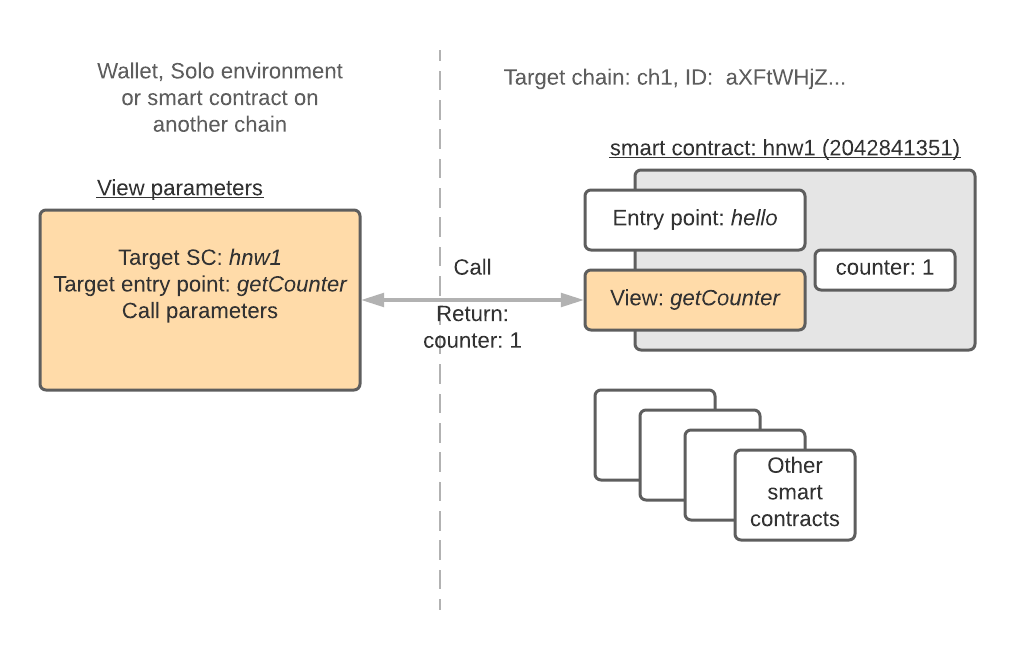
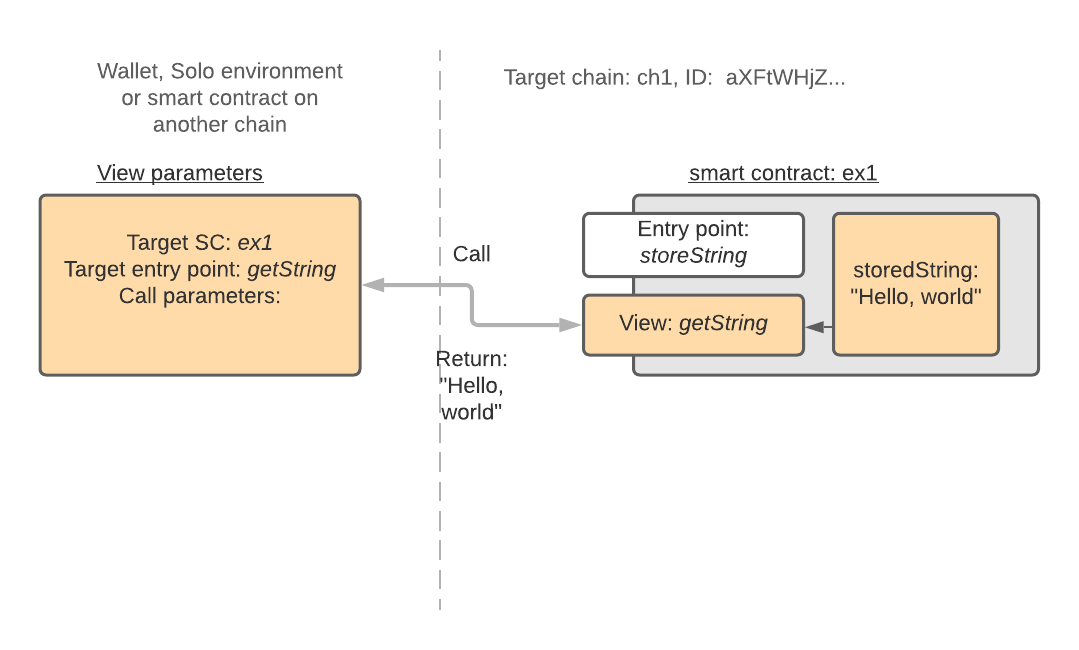
tutorial

Changed region(s): [[0.0305, 0.2154, 0.9773, 0.8308], [0.0916, 0.0923, 0.336, 0.2154], [0.4581, 0.0923, 0.8246, 0.1538]]

diff --git a/articles/tutorial/invoking.md b/articles/tutorial/invoking.md
@@ -1,0 +1,41 @@
+
+## General scheme of invoking the entry point
+The entry point is a function of the smart contract. 
+By “invocation” we mean calling the function from a particular environment. 
+The effect of invoking an entry point depends on the calling environment and who is calling. 
+Sending a request is an example of invocation of an entry point.
+
+In general, each call of the entry point is similar to the object method call in 
+the object-oriented paradigm. The invocations consists of:
+
+* `Hname` of the target contract, the called object 
+* `Hname` of the entry point function name, the name of the method
+* Parameters: a collection of key/value pairs, the (named) parameters of the call
+* Transferred tokens: a collection of color/balance pairs, a special type of parameter of the call
+
+The invocation always returns a result, a collection of key/value pairs or error, if the call fails.
+So, the following is a generic structure of the call to the entry point:
+```
+res = target_contract.function(parameters, transfer)
+```
+where `res` is a map (a dictionary) of key/value pairs, containing the result (possibly empty) or an error code.
+
+There are several ways to invoke the entry point of the smart contract: request, call and view call.
+
+* _request_ can be sent to the target contract from the “outside”: a wallet  
+or from another smart contract, on the same or on another chain. 
+The Solo environment is the “outside” (see [Invoking smart contract](6.md)). 
+The _request_ itself is a transaction, it contains parameters and attached tokens. 
+The tokens are transferred to the smart contract together with parameters and become part of its account. 
+Requests can only be invoked (sent) with a private key which controls those tokens. 
+Sending a request to a view will trigger an error and fallback actions.
+In the Solo environment requests are stored on the UTXODB ledger and handled by the Solo environment, 
+backlog is collected and requests are forwarded to the corresponding target chains.
+
+* any _entry point_ can be _called_ from another smart contract on the same chain. 
+It is just like a usual function call in a programming language. 
+In this case both caller and target smart contracts assume the same state of the chain, 
+i.e. the call is always synchronous.  
+
+* The _views_ can be called from anywhere, including from outside, 
+for example from a web API which fetches the smart contract data for display.

diff --git a/articles/tutorial/7.md b/articles/tutorial/7.md
@@ -3,11 +3,11 @@
 Previous: [Invoking smart contract. Sending a request](6.md)   
 
 ## Calling a view from the Solo environment
-The statement in the above example call a view entry point `getCounter` of the smart contract `example1`:
+The statement in the above example calls a view entry point `getString` of the smart contract `example1`:
 ```
 res, err := chain.CallView("example1", "getString")
 ```
-The call returns a result res, a collection of key/value pairs and error (if not nil).
+The call returns a result res, a collection of key/value pairs and error (if not `nil`).
 
 
 ![](call_view.png)
@@ -24,3 +24,28 @@ Views are used to retrieve information about the state of the smart contract,
 for example to display it on a website. In the Solo environment, certain methods such as `chain.GetInfo`, 
 `chain.GetFeeInfo` and `chain.GetTotalAssets` call views of the core smart contracts behind scenes 
 to retrieve the information about the chain or specific smart contract.
+
+### Decoding results from PostRequest and CallView in Solo
+The following is the technicality of the Go environment of _Solo_.
+
+The result returned by the call to the entry point from the _Solo_ environment is in the form of key/value pairs, 
+`dict.Dict` type. It is an extended interface and alias of the `map[string][]byte`. 
+The [dict.Dict](https://github.com/iotaledger/wasp/blob/develop/packages/kv/dict/dict.go) package
+provides a lot of useful functions to handle this form of key/value storage.
+
+In normal operation of smart contracts one can only retrieve results returned by view calls, 
+since view calls are synchronous. 
+On the other hand, sending a request to a smart contract is an asynchronous operation, and 
+the caller cannot retrieve the result. 
+However, in the _Solo_ environment, the call to `PostRequest` is synchronous, and the caller can inspect 
+the result: this is a convenient difference between the mocked _Solo_ environment and a 
+distributed Value Tangle ledger used by Wasp nodes. 
+It can be used to make assertions on the result of the call in the test.
+
+The example `res` is a dictionary where keys and values are binary slices. The statement
+```
+counter, exists, err := codec.DecodeInt64(res.MustGet("counter")) 
+```
+takes the value of the key “counter” from the key value store and attempts to decode it as `int64`.
+The decoding returns a possible error value, existence flag and the value itself.
+ 

diff --git a/articles/tutorial/6.md b/articles/tutorial/6.md
@@ -2,6 +2,8 @@
 
 Previous: [Deploying and running Rust smart contract](5.md#panic-exception-handling)
 
+(see also [General scheme of invoking the entry point](invoking.md))
+
 ## Invoking smart contract. Sending a request
 
 Sending request to a smart contract

diff --git a/articles/tutorial/readme.md b/articles/tutorial/readme.md
@@ -29,4 +29,4 @@ Chapters:
 * [Panic. Exception handling](5.md#panic-exception-handling)
 * [Invoking a smart contract](6.md)
     * [Sending a request](6.md)
-    * [Caling a view](7.md)
+    * [Calling a view](7.md)
